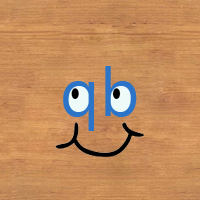
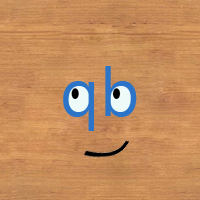
happy & bug fixes

Changed region(s): [[0.27, 0.6, 0.72, 0.81]]

diff --git a/navi-qb.js b/navi-qb.js
@@ -264,27 +264,33 @@ const getMission = () => {
 
 const showModal = (id, message) => {
     const parent = document.getElementById("gamegrid");
-    let modal = document.createElement("div");
+    let lastElem = parent.lastChild.id;
 
-    modal.setAttribute("id", `${id}`);
-    modal.setAttribute("class", "modal");
-    modal.setAttribute("style", "display: block");
-    modal.setAttribute("onclick", `toggleElement("${id}")`);
-    modal.appendChild(document.createElement("p"));
-    modal.childNodes[0].setAttribute("class", "modal-text");
-    modal.childNodes[0].innerHTML = message;
-    parent.appendChild(modal);
+    if (lastElem !== id) {
+        let modal = document.createElement("div");
+
+        modal.setAttribute("id", `${id}`);
+        modal.setAttribute("class", "modal");
+        modal.setAttribute("style", "display: block");
+        modal.setAttribute("onclick", `toggleElement("${id}")`);
+        modal.appendChild(document.createElement("p"));
+        modal.childNodes[0].setAttribute("class", "modal-text");
+        modal.childNodes[0].innerHTML = message;
+        parent.appendChild(modal);
+    }
 }
 
-const checkArrived = (object) => {
+const checkArrived = (object, elem) => {
 
-    let newTop = Math.round(object.currTop);
-    let newLeft = Math.round(object.currLeft);
+    let currTop = Math.round(object.currTop);
+    let currLeft = Math.round(object.currLeft);
     let top = Math.round(gridObjects[target].top);
     let left = Math.round(gridObjects[target].left);
 
-    if ((top - 10 < newTop && newTop < top + 10) && (left - 10 < newLeft && newLeft < left + 10)) {
-        debounceFn(showModal("donemodal", "Arrived.<br>Well Done!"), 3500);
+    if ((top - 10 < currTop && currTop < top + 10) && (left - 10 < currLeft && currLeft < left + 10)) {
+        debounceFn(showModal("donemodal", "Arrived.<br>Well Done!"), 4500);
+        object.icon = "url('templates/images/nqb-icon_happy.png')";
+        elem.style.backgroundImage = object.icon;
         resetCmd();
     };
 }
@@ -302,7 +308,7 @@ const turn90 = (direction, object, elem) => {
 const goRight = (comm, object, elem) => {
     if (object.currLeft >= object.newLeft) {
         clearInterval(comm);
-        checkArrived(object);
+        checkArrived(object, elem);
     } else {
         object.currLeft++;
         elem.style.left = `${object.currLeft.toFixed(2)}px`;
@@ -312,7 +318,7 @@ const goRight = (comm, object, elem) => {
 const goLeft = (comm, object, elem) => {
     if (object.currLeft <= object.newLeft) {
         clearInterval(comm);
-        checkArrived(object);
+        checkArrived(object, elem);
     } else {
         object.currLeft--;
         elem.style.left = `${object.currLeft.toFixed(2)}px`;
@@ -322,7 +328,7 @@ const goLeft = (comm, object, elem) => {
 const goUp = (comm, object, elem) => {
     if (object.currTop <= object.newTop) {
         clearInterval(comm);
-        checkArrived(object);
+        checkArrived(object, elem);
     } else {
         object.currTop--;
         elem.style.top = `${object.currTop.toFixed(2)}px`;
@@ -332,7 +338,7 @@ const goUp = (comm, object, elem) => {
 const goDown = (comm, object, elem) => {
     if (object.currTop >= object.newTop) {
         clearInterval(comm);
-        checkArrived(object);
+        checkArrived(object, elem);
     } else {
         object.currTop++;
         elem.style.top = `${object.currTop.toFixed(2)}px`;
@@ -505,19 +511,19 @@ function animQb(commandList, pb) {
             setTimeout(() => {
                 if (!stop) {
                     getNextCommand(dimension, qbObj, qb, item);
-                    if (pb) {
-                        toggleBTN("playbackBTN");
-                    }
                 };
             }, 4000 * i);
         })(i);
+    }
+    if (!pb) {
+        toggleBTN("playbackBTN");
     }
 }
 
 const playback = () => {
     history.reverse();
     let playBack = history.map(negItem);
-    animQb(playBack, false);
+    animQb(playBack, true);
     history = [];
     toggleBTN("playbackBTN");
 }

diff --git a/index.html b/index.html
@@ -19,7 +19,7 @@
                     <div id="cmdgrid"></div>
                     <div id="fngrid"></div>
                 </div>
-                <button id="startBTN" onclick="animQb(getCommandList(), true)">START</button>
+                <button id="startBTN" onclick="animQb(getCommandList(), false)">START</button>
             </div>
             <div id="icongrid"></div>
             <button id="resetBTN" class="button" onclick="resetCmd()">RESET COMMANDS</button>
